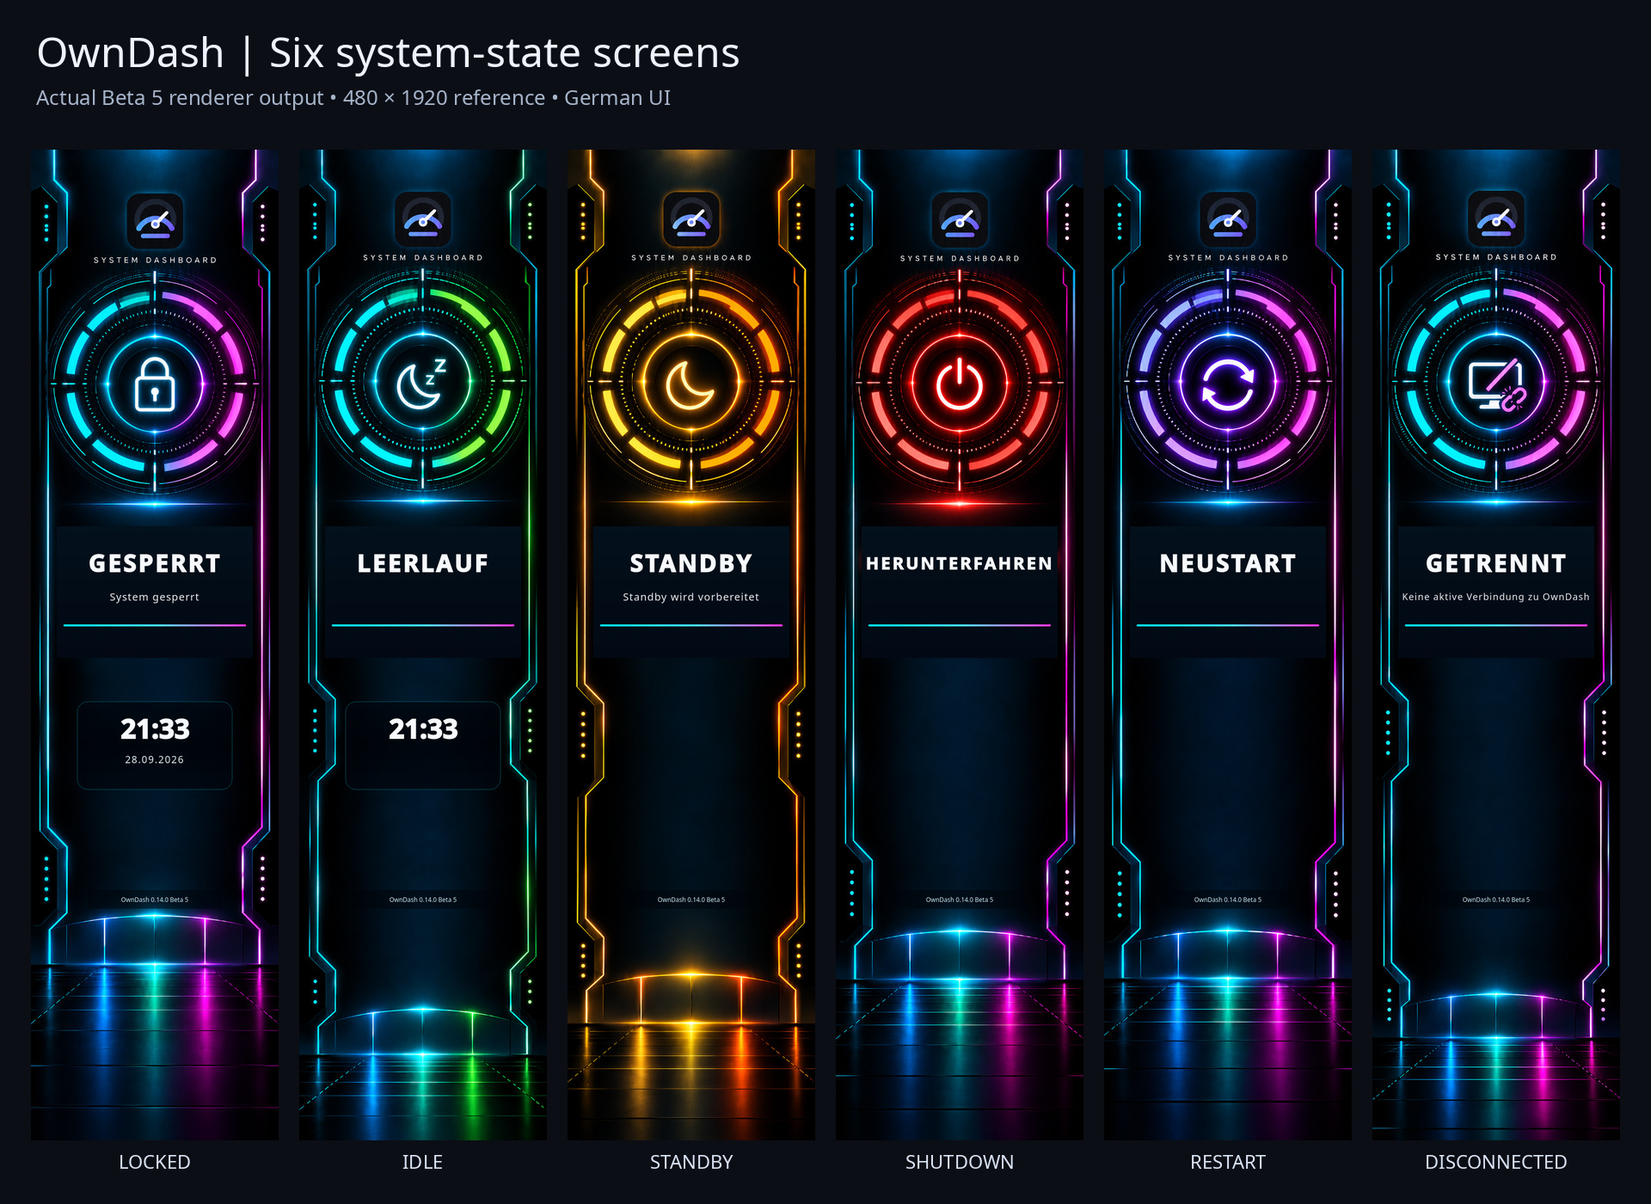
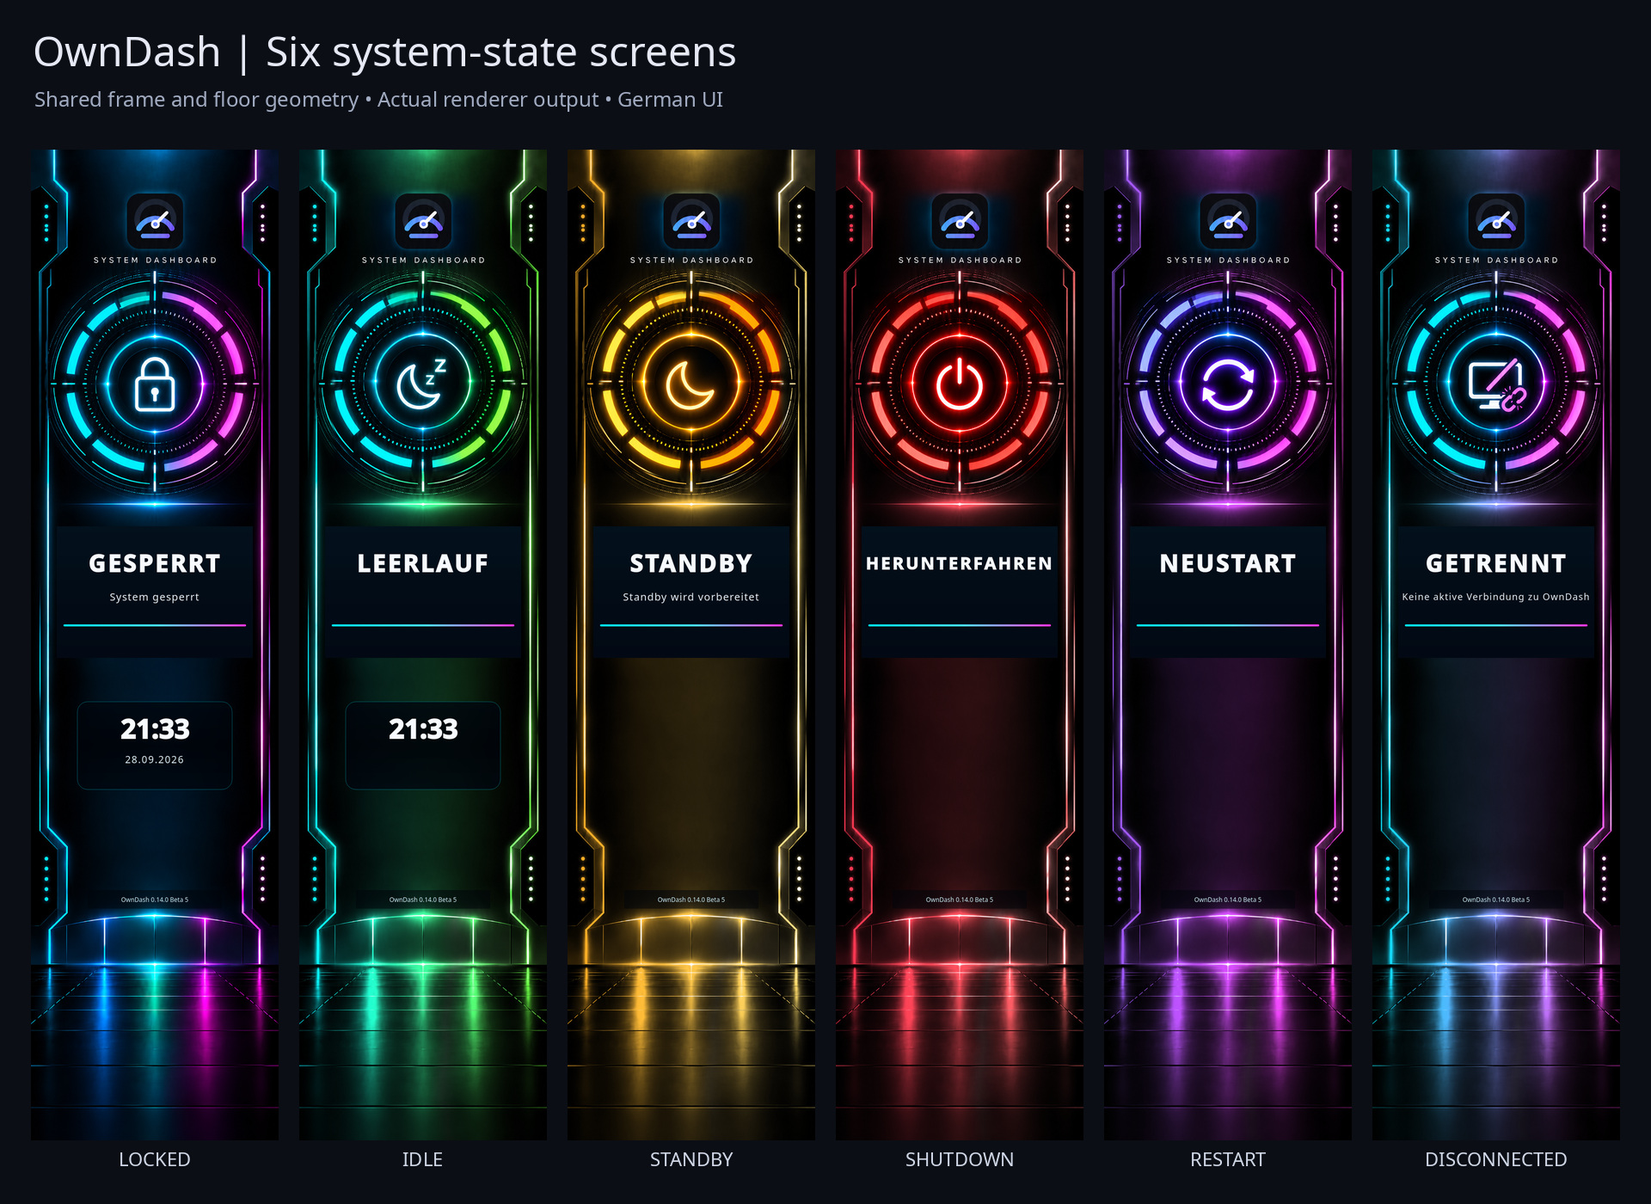
Fix delayed USB resume recovery and unify status screen geometry

diff --git a/src/owndash/gui/app_window.py b/src/owndash/gui/app_window.py
@@ -59,7 +59,7 @@ class UpdateBridge(QObject):
 class SafeShutdownWindow(MainWindow):
     """OwnDash lifecycle extensions for shutdown, updates and system states."""
 
-    _RESUME_RECONNECT_DELAYS_MS = (600, 800, 1000, 1200, 1400)
+    _RESUME_RECONNECT_DELAYS_MS = (600, 800, 1000, 1200, 1400, 2000, 3000, 5000, 8000, 12000, 15000, 20000, 30000)
     _SYSTEM_STATE_ANIMATION_INTERVAL_MS = 750
 
     def _build_toolbar(self) -> None:
@@ -113,6 +113,8 @@ class SafeShutdownWindow(MainWindow):
         self._resume_reconnect_pending = False
         self._resume_recovery_armed = False
         self._resume_reconnect_attempt = 0
+        self._resume_recovery_generation = 0
+        self._resume_retry_queued = False
         self._system_state_animation_phase = 0.0
         self._system_state_animation_timer = QTimer(self)
         self._system_state_animation_timer.setInterval(
@@ -156,6 +158,7 @@ class SafeShutdownWindow(MainWindow):
 
     def _display_connected(self, info: object) -> None:
         super()._display_connected(info)
+        self._invalidate_resume_callbacks()
         self._connected_display_info = info
         self._resume_reconnect_pending = False
         self._resume_recovery_armed = False
@@ -219,6 +222,7 @@ class SafeShutdownWindow(MainWindow):
         super()._start_display_stream()
 
     def _stop_display_stream(self) -> None:
+        self._invalidate_resume_callbacks()
         self._resume_reconnect_pending = False
         self._resume_recovery_armed = False
         self._resume_reconnect_attempt = 0
@@ -283,6 +287,10 @@ class SafeShutdownWindow(MainWindow):
             self.tray_display_action.setEnabled(False)
             self.tray_display_action.setText(self._t("Display ist gestoppt"))
 
+    def _invalidate_resume_callbacks(self) -> None:
+        self._resume_recovery_generation += 1
+        self._resume_retry_queued = False
+
     def _schedule_usb_resume_reconnect(self) -> None:
         """Start a short, bounded post-resume recovery window.
 
@@ -290,13 +298,15 @@ class SafeShutdownWindow(MainWindow):
         present without the logind ACL, then accessible. Probing these states
         before opening PyUSB prevents transient conditions from surfacing as
         user-facing errors. This timer chain exists only after resume and stops
-        immediately on success or after roughly five seconds.
+        immediately on success or after roughly 100 seconds. Some USB hubs
+        take tens of seconds to re-enumerate after a controller reset.
         """
         if self.display_backend_key != "aic_usb":
             self._resume_reconnect_pending = False
             self._resume_recovery_armed = False
             self._resume_reconnect_attempt = 0
             return
+        self._invalidate_resume_callbacks()
         self._resume_reconnect_pending = True
         self._resume_recovery_armed = True
         self._resume_reconnect_attempt = 0
@@ -308,12 +318,25 @@ class SafeShutdownWindow(MainWindow):
     def _queue_usb_resume_reconnect(self) -> None:
         if not self._resume_reconnect_pending or self.display_backend_key != "aic_usb":
             return
+        if self._resume_retry_queued:
+            return
         if self._resume_reconnect_attempt >= len(self._RESUME_RECONNECT_DELAYS_MS):
             self._finish_usb_resume_recovery_failure()
             return
         delay = self._RESUME_RECONNECT_DELAYS_MS[self._resume_reconnect_attempt]
         self._resume_reconnect_attempt += 1
-        QTimer.singleShot(int(delay), self._attempt_usb_resume_reconnect)
+        generation = self._resume_recovery_generation
+        self._resume_retry_queued = True
+
+        def attempt() -> None:
+            if generation != self._resume_recovery_generation:
+                return
+            self._resume_retry_queued = False
+            if self._system_state_runtime.visible_state is SystemState.SUSPENDING:
+                return
+            self._attempt_usb_resume_reconnect()
+
+        QTimer.singleShot(int(delay), attempt)
 
     def _attempt_usb_resume_reconnect(self) -> None:
         if not self._resume_reconnect_pending or self.display_backend_key != "aic_usb":
@@ -650,6 +673,7 @@ class SafeShutdownWindow(MainWindow):
         self._idle_state_monitor.set_enabled(idle_enabled)
 
         if not master:
+            self._invalidate_resume_callbacks()
             self._system_state_adapter.stop()
             self._idle_state_monitor.stop()
             self._resume_reconnect_pending = False
@@ -688,6 +712,7 @@ class SafeShutdownWindow(MainWindow):
         is_suspend_start = state is SystemState.SUSPENDING and bool(enabled)
         is_resume = state is SystemState.SUSPENDING and not bool(enabled)
         if is_suspend_start:
+            self._invalidate_resume_callbacks()
             self._resume_reconnect_pending = False
             self._resume_recovery_armed = False
             self._resume_reconnect_attempt = 0
@@ -698,7 +723,11 @@ class SafeShutdownWindow(MainWindow):
                     # The display may survive suspend and only fail when its
                     # first post-resume transfer occurs. Keep that transient
                     # failure quiet for a bounded window, not indefinitely.
-                    QTimer.singleShot(12000, self._clear_resume_recovery_arm)
+                    generation = self._resume_recovery_generation
+                    QTimer.singleShot(120000, lambda: (
+                        self._clear_resume_recovery_arm()
+                        if generation == self._resume_recovery_generation else None
+                    ))
 
         self._system_state_runtime.handle_condition(state, bool(enabled))
 
@@ -878,6 +907,8 @@ class SafeShutdownWindow(MainWindow):
             self._configure_system_state_animation(state)
 
     def _stop_system_state_services(self) -> None:
+        self._invalidate_resume_callbacks()
+        self._resume_reconnect_pending = False
         self._system_state_animation_timer.stop()
         adapter = getattr(self, "_system_state_adapter", None)
         if adapter is not None:

diff --git a/src/owndash/gui/system_state_frame.py b/src/owndash/gui/system_state_frame.py
@@ -5,7 +5,7 @@ from dataclasses import dataclass
 from functools import lru_cache
 from importlib.resources import as_file, files
 
-from PIL import Image
+from PIL import Image, ImageChops, ImageFilter
 from PySide6.QtCore import QRectF, Qt
 from PySide6.QtGui import QColor, QFont, QFontMetricsF, QIcon, QImage, QLinearGradient, QPainter, QPen
 
@@ -111,9 +111,60 @@ def _reference_image(filename: str) -> QImage:
     return image.convertToFormat(QImage.Format_RGB32)
 
 
+@lru_cache(maxsize=8)
+def _unified_reference_image(filename: str) -> QImage:
+    """One spatial template for every state; only HUD art and hue vary.
+
+    Preserve the accepted lock screen's frame, podium and floor pixel geometry.
+    Source sheets remain unchanged and supply only their central HUD region.
+    The cached result avoids recolouring during animation or live clock updates.
+    """
+    canonical = "status_hud_locked.png"
+    if filename == canonical:
+        return _reference_image(canonical)
+    with as_file(_resource(canonical)) as path:
+        chrome = Image.open(path).convert("RGB")
+    state = {value: key for key, value in _STATE_ASSETS.items()}.get(filename)
+    left, right = _state_accents(state)
+    lo = tuple(left.getRgb()[:3])
+    hi = tuple(right.getRgb()[:3])
+    r, g, b = chrome.split()
+    value = ImageChops.lighter(ImageChops.lighter(r, g), b)
+    neutral = ImageChops.darker(ImageChops.darker(r, g), b)
+    chroma = ImageChops.subtract(value, neutral)
+    for x in range(chrome.width):
+        ratio = x / (chrome.width - 1)
+        colour = [a * (1 - ratio) + z * ratio for a, z in zip(lo, hi)]
+        peak = max(colour)
+        strip = chroma.crop((x, 0, x + 1, chrome.height))
+        grey = neutral.crop((x, 0, x + 1, chrome.height))
+        channels = [ImageChops.add(grey, strip.point([round(v * c / peak) for v in range(256)])) for c in colour]
+        chrome.paste(Image.merge("RGB", channels), (x, 0))
+    # Keep the original brand mark unchanged across the family.
+    with as_file(_resource(canonical)) as path:
+        original = Image.open(path).convert("RGB")
+    brand_box = (100, 55, 380, 235)
+    brand = original.crop(brand_box)
+    brand_mask = Image.new("L", brand.size, 0)
+    brand_mask.paste(255, (35, 35, brand.width - 35, brand.height - 20))
+    brand_mask = brand_mask.filter(ImageFilter.GaussianBlur(12))
+    chrome.paste(brand, brand_box[:2], brand_mask)
+    rect = _HUD_SOURCE_RECT
+    box = (round(rect.x()), round(rect.y()), round(rect.right()), round(rect.bottom()))
+    with as_file(_resource(filename)) as path:
+        hud = Image.open(path).convert("RGB").crop(box)
+    # Feather only the dark outer margin, retaining the symbol and ring intact.
+    mask = Image.new("L", hud.size, 0)
+    mask.paste(255, (10, 10, hud.width - 10, hud.height - 10))
+    mask = mask.filter(ImageFilter.GaussianBlur(4))
+    chrome.paste(hud, box[:2], mask)
+    data = chrome.tobytes()
+    return QImage(data, chrome.width, chrome.height, chrome.width * 3, QImage.Format_RGB888).copy().convertToFormat(QImage.Format_RGB32)
+
+
 def _fitted_reference(filename: str, width: int, height: int) -> tuple[QImage, _Placement]:
-    """Contain the protected 1:4 reference artwork without stretching it."""
-    source = _reference_image(filename)
+    """Contain the unified 1:4 reference artwork without stretching it."""
+    source = _unified_reference_image(filename)
     if (width, height) == (_REFERENCE_W, _REFERENCE_H):
         return source.copy(), _Placement(0.0, 0.0, 1.0, 1.0)
 
@@ -794,7 +845,7 @@ def render_system_state_image(
     animation_phase: float = 0.0,
 ) -> QImage:
     # Theme/icon/context parameters stay in the public API for compatibility.
-    # The approved artwork is one theme-independent family and is never recolored.
+    # The frame geometry is shared; state symbols and accent palettes remain distinct.
     del theme, icon, sensor_text
     if state is SystemState.ACTIVE:
         raise ValueError("ACTIVE has no temporary system-state frame")

diff --git a/tests/test_system_state_window.py b/tests/test_system_state_window.py
@@ -357,3 +357,75 @@ def test_system_state_render_error_uses_active_language(state_window, monkeypatc
     window._send_system_state_frame(SystemState.LOCKED)
 
     assert window.statusBar().currentMessage() == "System state screen could not be rendered: boom"
+
+
+@pytest.mark.parametrize('available_after_ms', [43000, 90000])
+def test_resume_recovers_usb_that_reappears_late(state_window, monkeypatch, available_after_ms):
+    window = state_window
+    window.display_backend_key = 'aic_usb'
+    elapsed = 0
+    scheduled = []
+    starts = []
+    monkeypatch.setattr(QTimer, 'singleShot', staticmethod(lambda delay, callback: scheduled.append((delay, callback))))
+    monkeypatch.setattr(app_window_module, 'probe_artinchip_usb', lambda: SimpleNamespace(connected=elapsed >= available_after_ms, accessible=elapsed >= available_after_ms))
+    def start():
+        starts.append(elapsed)
+        window._resume_reconnect_pending = False
+    monkeypatch.setattr(window, '_start_display_stream', start)
+    window._schedule_usb_resume_reconnect()
+    for _ in range(30):
+        if not scheduled:
+            break
+        delay, callback = scheduled.pop(0)
+        elapsed += delay
+        callback()
+    assert starts, f'gave up at {elapsed}ms before USB returned at {available_after_ms}ms'
+    assert available_after_ms <= starts[0] <= 120000
+
+
+def test_old_resume_callback_cannot_enter_new_recovery_session(state_window, monkeypatch):
+    window = state_window
+    window.display_backend_key = 'aic_usb'
+    scheduled = []
+    probes = []
+    monkeypatch.setattr(QTimer, 'singleShot', staticmethod(lambda delay, callback: scheduled.append(callback)))
+    monkeypatch.setattr(app_window_module, 'probe_artinchip_usb', lambda: probes.append(True) or SimpleNamespace(connected=False, accessible=False))
+    window._schedule_usb_resume_reconnect()
+    stale = scheduled.pop(0)
+    window._stop_display_stream()
+    window._schedule_usb_resume_reconnect()
+    stale()
+    assert probes == []
+    assert len(scheduled) == 1
+
+
+def test_repeated_resume_errors_queue_only_one_retry(state_window, monkeypatch):
+    window = state_window
+    window.display_backend_key = "aic_usb"
+    scheduled = []
+    monkeypatch.setattr(QTimer, "singleShot", staticmethod(lambda delay, callback: scheduled.append(callback)))
+    window._schedule_usb_resume_reconnect()
+    window._display_error(RuntimeError("USB temporarily unavailable"))
+    window._display_error(RuntimeError("USB temporarily unavailable"))
+    assert len(scheduled) == 1
+    assert window._resume_reconnect_attempt == 1
+
+
+def test_old_arm_expiry_cannot_disarm_later_resume(state_window, monkeypatch):
+    window = state_window
+    window.display_backend_key = "aic_usb"
+    scheduled = []
+    monkeypatch.setattr(QTimer, "singleShot", staticmethod(lambda delay, callback: scheduled.append((delay, callback))))
+    window._handle_system_state_condition(SystemState.SUSPENDING, True)
+    window._system_state_display_was_active = True
+    window._handle_system_state_condition(SystemState.SUSPENDING, False)
+    old_expiry = next(callback for delay, callback in scheduled if delay == 120000)
+    scheduled.clear()
+    window._handle_system_state_condition(SystemState.SUSPENDING, True)
+    window._system_state_display_was_active = True
+    window._handle_system_state_condition(SystemState.SUSPENDING, False)
+    current_expiry = next(callback for delay, callback in scheduled if delay == 120000)
+    old_expiry()
+    assert window._resume_recovery_armed is True
+    current_expiry()
+    assert window._resume_recovery_armed is False

diff --git a/tests/test_system_state_renderer_redesign.py b/tests/test_system_state_renderer_redesign.py
@@ -82,7 +82,12 @@ def _assert_preserves_stable_artwork(frame, filename: str):
     approved = _approved_asset_rgb(filename)
     assert frame.width() == 480
     assert frame.height() == 1920
-    for x, y in _APPROVED_STABLE_POINTS:
+    # State symbols remain original. Frames and floors intentionally now use
+    # the locked reference geometry, with state-specific accent colours.
+    points = [(x, y) for x in range(180, 301, 4) for y in range(390, 511, 4)]
+    if filename == "status_hud_locked.png":
+        points += _APPROVED_STABLE_POINTS
+    for x, y in points:
         red, green, blue = approved.getpixel((x, y))
         actual = frame.pixelColor(x, y)
         assert abs(actual.red() - red) <= 1
@@ -108,7 +113,7 @@ def test_old_stretched_state_jpegs_are_not_packaged():
         assert not files("owndash").joinpath("assets", old_name).is_file()
 
 
-def test_each_system_state_preserves_its_fresh_artwork_outside_runtime_overlays():
+def test_each_system_state_preserves_its_original_symbol():
     for state, filename in _STATE_ASSETS.items():
         frame = render_system_state_image(
             480,
@@ -124,7 +129,7 @@ def test_each_system_state_preserves_its_fresh_artwork_outside_runtime_overlays(
         _assert_preserves_stable_artwork(frame, filename)
 
 
-def test_disconnected_preserves_its_fresh_artwork_outside_runtime_overlays():
+def test_disconnected_preserves_its_original_symbol():
     frame = render_disconnected_status_image(
         480,
         1920,
@@ -201,7 +206,7 @@ def test_renderer_has_no_baked_demo_clock_date_or_footer_contract():
     assert "_REFERENCE_FOOTER" not in source
 
 
-def test_system_state_renderer_uses_exact_png_state_assets_without_recolor_fallback():
+def test_system_state_renderer_uses_original_png_symbols_without_retired_fallback():
     gui_dir = Path(__file__).resolve().parents[1] / "src" / "owndash" / "gui"
     source = (gui_dir / "system_state_frame.py").read_text(encoding="utf-8")
 

diff --git a/tests/test_system_state_shared_geometry.py b/tests/test_system_state_shared_geometry.py
@@ -1,0 +1,24 @@
+from PIL import Image, ImageChops
+from PySide6.QtGui import QIcon
+from owndash.core.system_state import SystemState
+from owndash.gui.system_state_frame import render_system_state_image, render_disconnected_status_image
+
+
+def energy(frame, box):
+    # Maximum channel isolates spatial brightness from each state's hue.
+    rgb = frame.convertToFormat(frame.Format.Format_RGB888)
+    im = Image.frombytes('RGB', (rgb.width(), rgb.height()), bytes(rgb.constBits()), 'raw', 'RGB', rgb.bytesPerLine())
+    r,g,b=im.crop(box).split()
+    return ImageChops.lighter(ImageChops.lighter(r,g),b)
+
+
+def test_all_states_share_frame_and_floor_geometry(qapplication):
+    states=[SystemState.LOCKED,SystemState.IDLE,SystemState.SUSPENDING,SystemState.SHUTTING_DOWN,SystemState.RESTARTING]
+    frames=[render_system_state_image(480,1920,s,'owndash',QIcon(),{}) for s in states]
+    frames.append(render_disconnected_status_image(480,1920,QIcon()))
+    # Whole side rails and floor, away from dynamic text/clock/symbol.
+    for box in [(0,0,50,1920),(430,0,480,1920),(0,1500,480,1920)]:
+        reference=energy(frames[0],box)
+        for frame in frames[1:]:
+            difference=ImageChops.difference(reference,energy(frame,box))
+            assert difference.getextrema()[1] <= 2, box

diff --git a/docs/system-state-screens.md b/docs/system-state-screens.md
@@ -8,7 +8,7 @@ The lifecycle behavior is functionally implemented for idle, lock, suspend/stand
 
 The visual renderer uses one approved family of lossless state PNG source sheets plus runtime-owned localized state wording, clock/date and the current OwnDash version. The disconnected/closed OwnDash screen delegates to the same renderer family instead of maintaining a separate visual implementation.
 
-The project's physically accepted 480×1920 VSDISPLAY remains the protected visual reference. That exact target keeps its approved composition. Other dimensions are composed responsively from target-relative zones instead of containing a narrow 1:4 screen inside unused space.
+The project's physically accepted 480×1920 VSDISPLAY remains the protected visual reference. That target uses the locked screen as the shared spatial template for all six states: side rails, notches, indicator dots, podium, horizon and floor grid now have identical geometry. Accent colours and the original central symbols remain state-specific. The six source PNGs remain unchanged; the renderer caches the unified composition. Other dimensions are composed responsively from target-relative zones instead of containing a narrow 1:4 screen inside unused space.
 
 ## Renderer architecture rule
 
@@ -125,9 +125,13 @@ Some direct USB displays disappear from the USB bus while the machine sleeps. Fo
 
 - the failed stream is released quietly
 - no suspend-time warning-dialog spam is shown
-- after resume, one bounded reconnect sequence is scheduled
+- after resume, one bounded reconnect sequence is scheduled, with retries spanning approximately 100 seconds to accommodate slow USB-controller and hub resets
 - there is no reconnect polling loop or endless retry loop
 - a normal manual display stop cancels pending recovery state
+- timer callbacks carry a recovery-generation token, so an old callback cannot restart output in a later recovery session
+- a new suspend, disabling system-state handling, or application shutdown invalidates queued retries
+
+The post-Beta-5 correction covers a recorded case where the USB display re-enumerated 43 seconds after resume, beyond the previous five-second retry sequence. Regression tests simulate devices returning after 43 and 90 seconds. A new real suspend/resume cycle is still required to validate the correction on the affected hardware.
 
 If reconnect succeeds while the session is still locked or idle, OwnDash sends the appropriate system-state HUD rather than briefly flashing the normal dashboard.
 

diff --git a/README_DE.md b/README_DE.md
@@ -76,7 +76,7 @@ OwnDash zeigt passende HUD-Statusscreens für **Gesperrt, Leerlauf, Standby, Her
 
 Sperr- und Leerlaufansicht können eine dezente HUD-Animation mit niedriger Aktualisierungsrate anzeigen. Standby, Herunterfahren, Neustart und Getrennt bleiben statisch – ohne eingefrorene Uhr. Unnötiges Dashboard-Rendering und Sensorabfragen pausieren während der Statusansicht.
 
-*Oben zu sehen: echte Ausgabe des Beta-5-Renderers in der Referenzgröße 480×1920, mit deutschen Beschriftungen und beispielhafter Uhrzeit/Datum. Englische Beschriftungen werden ebenfalls unterstützt. Letzte Statusbilder bei Systemübergängen werden nach Möglichkeit übertragen; ob sie sichtbar bleiben, hängt von Display-Stromversorgung und Hardwareverhalten ab.*
+*Oben zu sehen: echte Renderer-Ausgabe mit der Rahmenvereinheitlichung nach Beta 5 in der Referenzgröße 480×1920, mit deutschen Beschriftungen und beispielhafter Uhrzeit/Datum. Englische Beschriftungen werden ebenfalls unterstützt. Letzte Statusbilder bei Systemübergängen werden nach Möglichkeit übertragen; ob sie sichtbar bleiben, hängt von Display-Stromversorgung und Hardwareverhalten ab.*
 
 [Details zu Verhalten und Kompatibilität der Statusscreens](docs/system-state-screens.md).
 

diff --git a/README.md b/README.md
@@ -76,7 +76,7 @@ OwnDash gives your display a matching HUD-style screen for **Locked, Idle, Stand
 
 Lock and idle can use subtle, low-rate HUD animation. Standby, shutdown, restart and disconnected output stays static, with no frozen clock. Unnecessary dashboard rendering and sensor refresh pause during system-state views.
 
-*Shown above: actual Beta 5 renderer output at the 480×1920 reference size, with German labels and sample time/date. English labels are also supported. Final transition frames are best-effort; continued visibility depends on display power and hardware behaviour.*
+*Shown above: actual renderer output with the post-Beta-5 shared-frame correction at the 480×1920 reference size, with German labels and sample time/date. English labels are also supported. Final transition frames are best-effort; continued visibility depends on display power and hardware behaviour.*
 
 [Read about system-state behaviour and compatibility](docs/system-state-screens.md).
 
